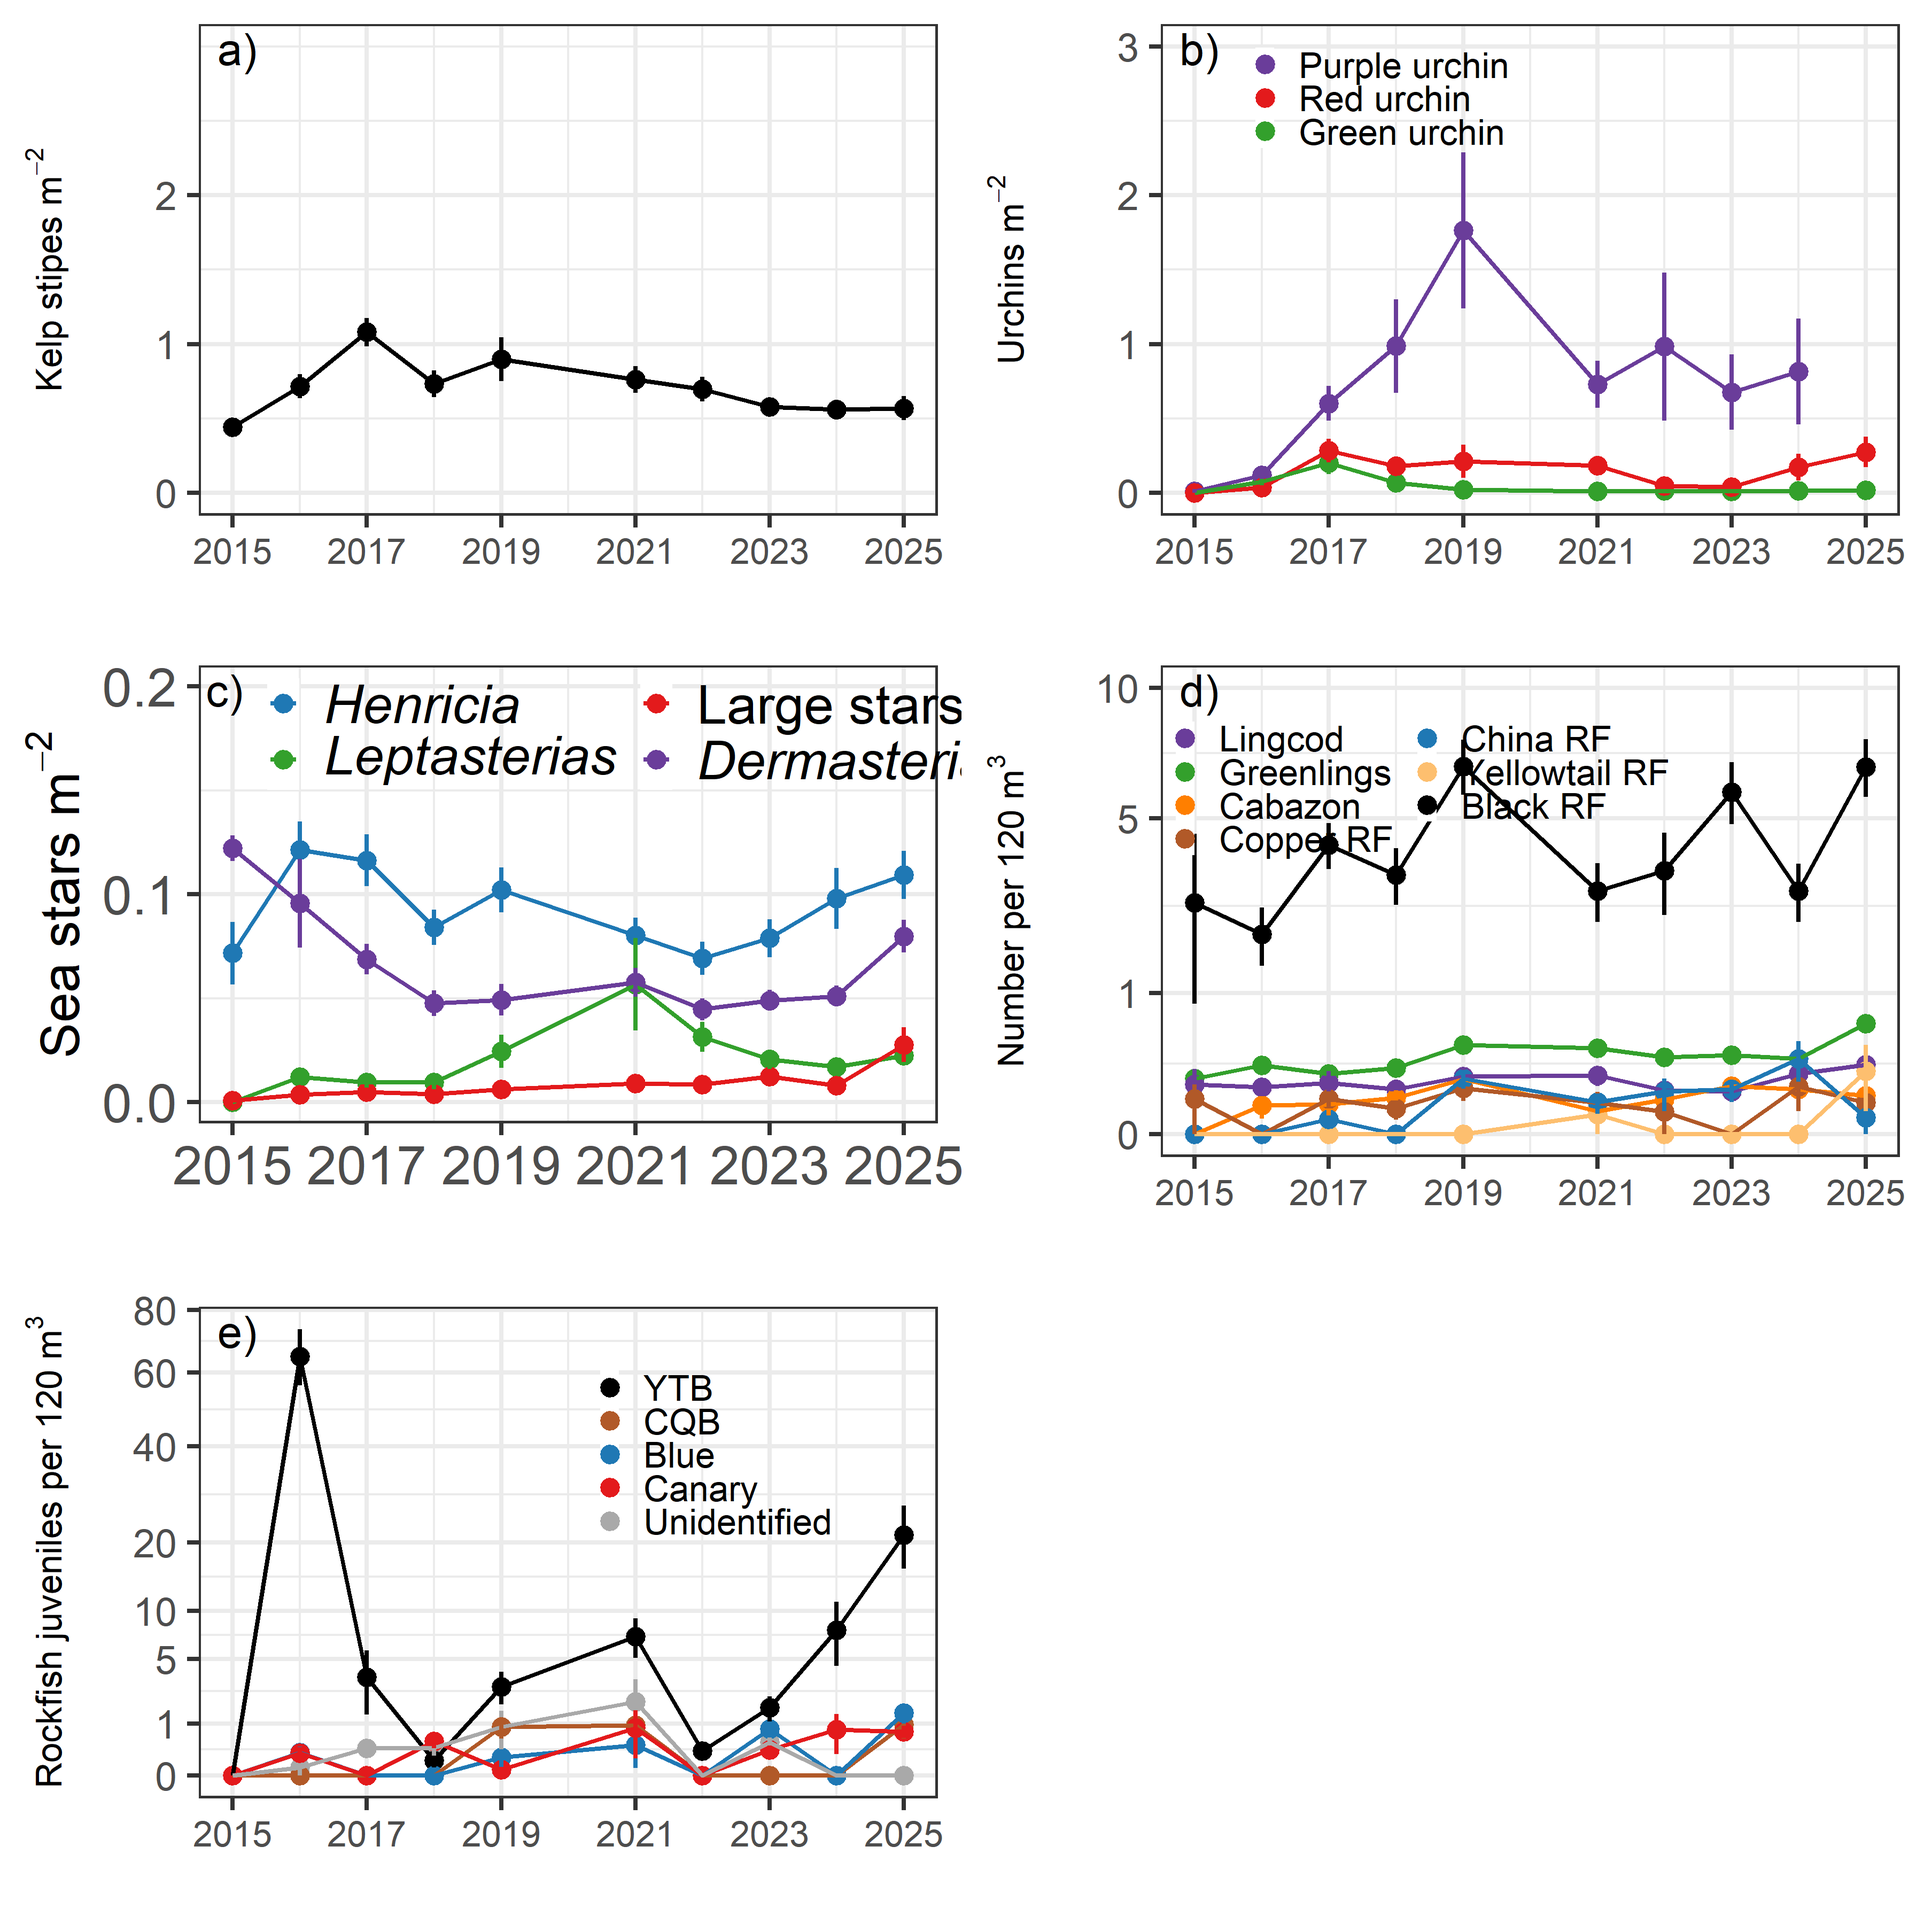
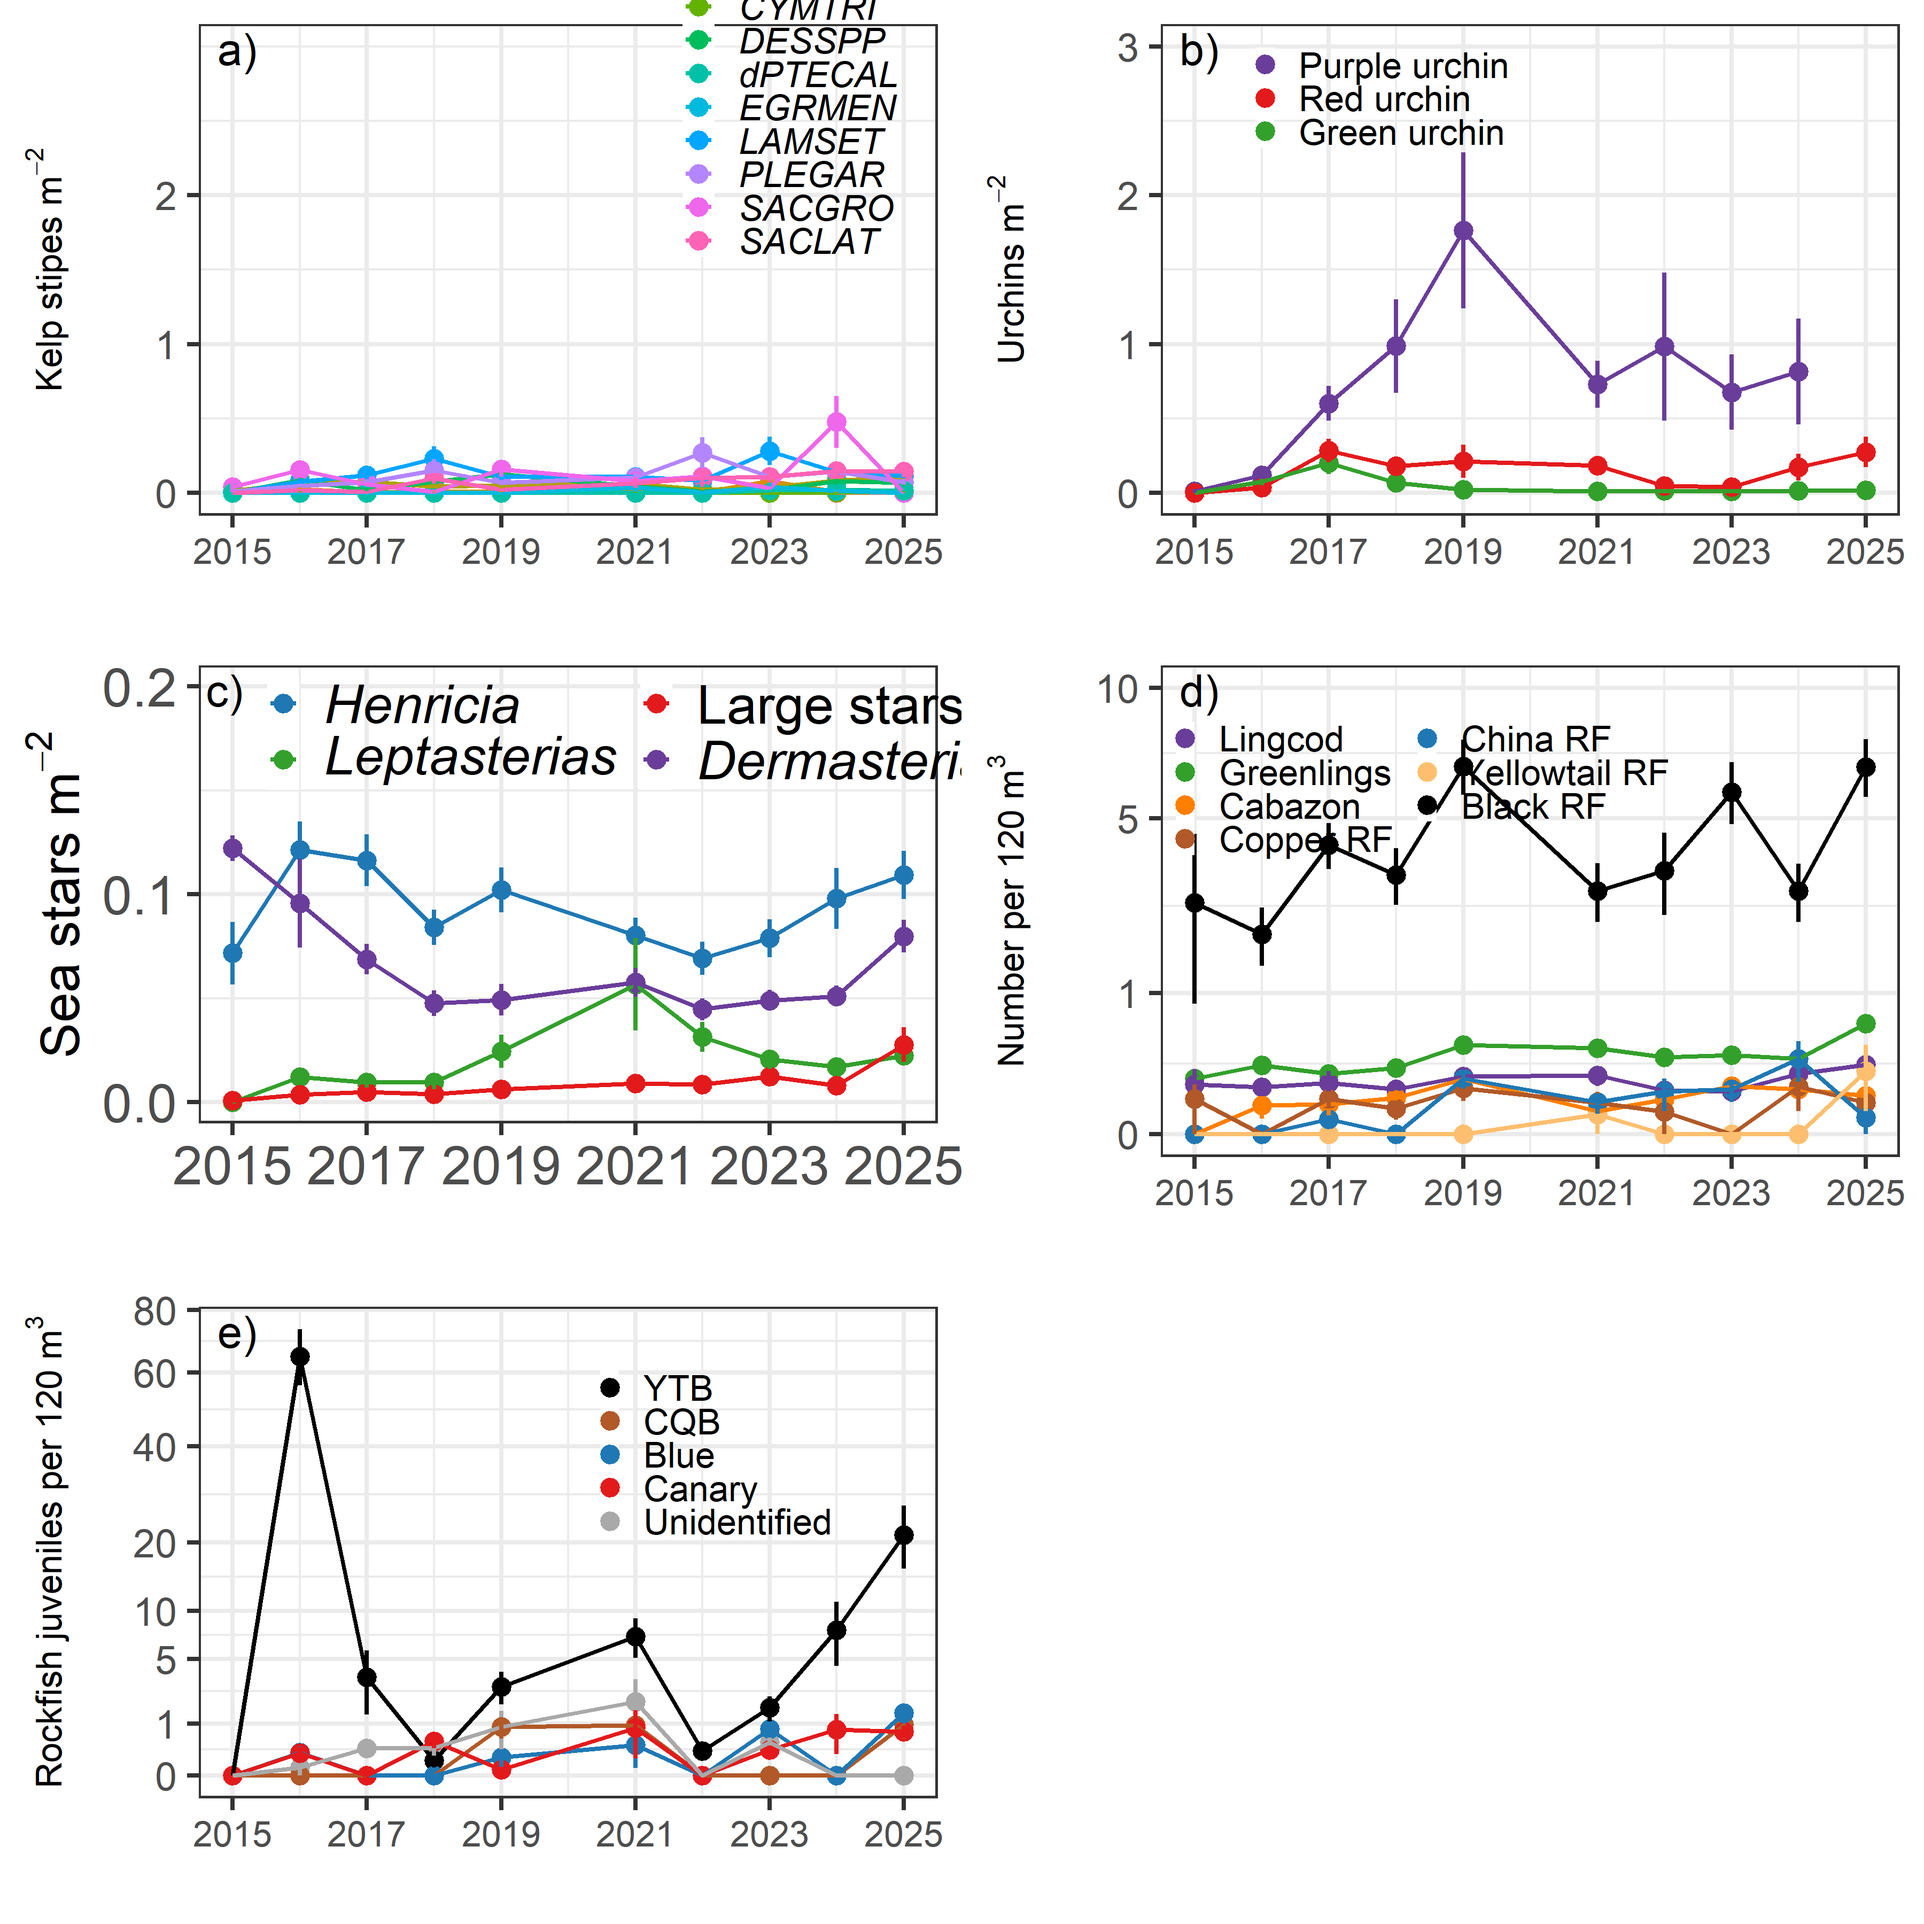
Updated annual update code to include understory algae and NMS outputs

Changed region(s): [[0.1244, 0.1867, 0.4667, 0.28], [0.3422, 0.0, 0.4667, 0.1244], [0.1867, 0.1556, 0.2178, 0.1867]]

diff --git a/_00_Annual-Update/_01_annual-update-and-univariate-plots.html b/_00_Annual-Update/_01_annual-update-and-univariate-plots.html
@@ -1881,7 +1881,7 @@ counts for <em>Nerocystis</em>, <em>Macrocystis</em>, and
 </div>
 <div id="just-5-m" class="section level3" number="10.4.2">
 <h3><span class="header-section-number">10.4.2</span> Just 5 m</h3>
-<p>Same as above but subset out for just 5 m. Mean ignroes 10-m
+<p>Same as above but subset out for just 5 m. Mean ignores 10-m
 transects.</p>
 <pre><code>## `summarise()` has regrouped the output.
 ## `summarise()` has regrouped the output.
@@ -1900,6 +1900,18 @@ transects.</p>
 ##   (`?dplyr::dplyr_by`) instead.</code></pre>
 <p><img src="~/GitHub/OCNMS/_00_Annual-Update/figures/kelp-coastwide-total-1.png" alt width="1500" style="display: block; margin: auto;" /></p>
 </div>
+</div>
+<div id="understory-kelps" class="section level2" number="10.5">
+<h2><span class="header-section-number">10.5</span> Understory
+Kelps</h2>
+<pre><code>## `summarise()` has regrouped the output.
+## `summarise()` has regrouped the output.
+## ℹ Summaries were computed grouped by site, year, and species.
+## ℹ Output is grouped by site and year.
+## ℹ Use `summarise(.groups = &quot;drop_last&quot;)` to silence this message.
+## ℹ Use `summarise(.by = c(site, year, species))` for per-operation grouping
+##   (`?dplyr::dplyr_by`) instead.</code></pre>
+<p><img src="~/GitHub/OCNMS/_00_Annual-Update/figures/understory kelps-1.png" alt width="2100" style="display: block; margin: auto;" /></p>
 </div>
 </div>
 <div id="invertebrates" class="section level1" number="11">
